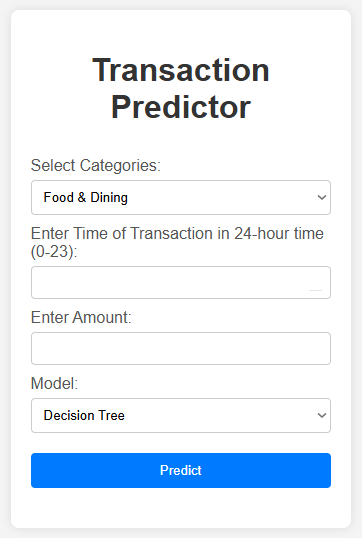
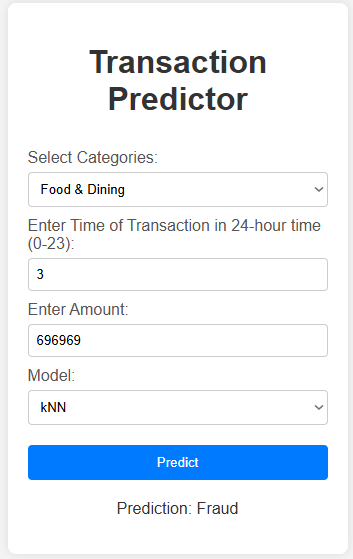
Frontend paragraph

diff --git a/poster/index.html b/poster/index.html
@@ -16,6 +16,7 @@
     <body>
         <header id="header">
             <h1>Machine Learning</h1>
+            <h2></h2>
             <p>TM</p>
         </header>
         <div id="cms-logo-wrapper">
@@ -113,14 +114,33 @@
                         We have decidede to use a supervised model. This means that the model learns from labeled data, meaning each input has a known output (e.g., fraud/not fraud). 
                         This is different to an unsupervised model which finds patterns in unlabeled data, such as grouping similar transactions without predefined fraud labels.
                         We have to choose a model that is suitable for our data and the problem we are trying to solve.
+                        We have briefly look at many models, such as Support Vector Machine (SVM), linear regression, etc.
+                        However we decided that kNN and Decision Tree are the most suitable for our data since they are easy to interpret, 
+                        handle both numerical and categorical features well, and perform effectively with our dataset size and structure.
+
                     </p>
                 </div>
+                <div class="header"><h2 class="header">Analysing Data</h2></div>
                 <div class="header"><h2 class="header">KNN (k-Nearest Neighbours)</h2></div>
                 <div class="header"><h2 class="header">Decision Tree</h2></div>
             </div>
             <div class="column">
                 <div class="header"><h2 class="header">Evaluation</h2></div>
                 <div class="header"><h2 class="header">Frontend</h2></div>
+                <p>
+                    We have designed a transaction predictor webpage that allows users to upload a set of transaction data and we can determine if the transaction is fraudulent or genuine.
+                    This was being done by using a Flask API<sup ref author="Flask" date="31/03/2025" src="https://flask.palletsprojects.com/en/stable/"></sup> to handle the backend, using joblib<sup ref author="joblib" date="31/03/2025" src="https://joblib.readthedocs.io/en/stable/"></sup> to load the pre-trained model and feature packages, finally using HTML, CSS and Javascript to connect to the backend.
+                    It can be accessed at <a href="https://machinelearners.onrender.com">https://machinelearners.onrender.com</a>.
+                </p>
+                <div class="img">
+                    <img
+                        width="200"
+                        src="frontend.png"
+                        alt="Frontend" />
+                </div>
+                <p>
+                    In the above example, a ridiculous set of data is being input to the transaction predictor
+                </p>
                 <div class="header references"><h2>References</h2></div>
                 <div id="references" class="text"><p></p></div>
             </div>
